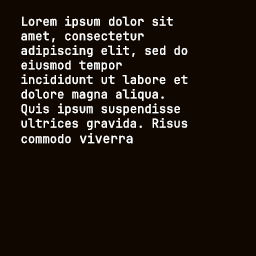
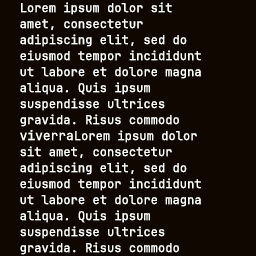
screen animations

Changed region(s): [[0.0625, 0.0, 0.7812, 1.0]]

diff --git a/frontend/src/extras/LaptopScreen.ts b/frontend/src/extras/LaptopScreen.ts
@@ -5,26 +5,33 @@ import LaptopTrianagleShader from "./LaptopTrianagleShader";
 import Timer from "../lib/Timer";
 import LaptopShader from "./LaptopShader";
 import {LaptopState} from "../GameModel";
+import LaptopMailShader from "./LaptopMailShader";
+import LaptopReadTextShader from "./LaptopReadTextShader";
 
 export class LaptopScreen extends Model{
     private triangleMaterial: Material;
-    private imgMaterial: Material;
+
+    private readTextMaterial: Material;
+    private emailMaterialLaptop: Material;
 
     constructor(renderer,parent:Model) {
         super(renderer,"laptopScreen");
         this.mesh = new Plane(renderer);
 
 
-        this.imgMaterial =new Material(this.renderer,"imgLaptopMaterial", new LaptopShader(this.renderer,"laptopShader"))
-        this.imgMaterial.uniforms.setTexture("image",renderer.texturesByLabel["laptopEmail.png"])
-        this.imgMaterial.uniforms.setUniform("ratio",8/5);
-        this.material =this.imgMaterial;
+        this.emailMaterialLaptop =new Material(this.renderer,"imgLaptopMaterial", new LaptopMailShader(this.renderer,"laptopShader"))
+        this.emailMaterialLaptop.uniforms.setTexture("image",renderer.texturesByLabel["laptopEmail.png"])
+        this.emailMaterialLaptop.uniforms.setUniform("ratio",8/5);
+        this.material = this.emailMaterialLaptop;
 
         this.triangleMaterial  =    new Material(this.renderer,this.label,new LaptopTrianagleShader(this.renderer,this.label));
         this.triangleMaterial.uniforms.setUniform("ratio",8/5);
         this.triangleMaterial.uniforms.setTexture("triangle",renderer.texturesByLabel["triangle.png"])
         this.triangleMaterial.uniforms.setTexture("text",renderer.texturesByLabel["text_s.png"])
 
+        this.readTextMaterial  =new Material(this.renderer,"imgLaptopMaterial", new LaptopReadTextShader(this.renderer,"laptopShader"))
+        this.readTextMaterial.uniforms.setTexture("image",renderer.texturesByLabel["laptopText.png"])
+        this.readTextMaterial.uniforms.setUniform("ratio",8/5);
 
 
 
@@ -42,12 +49,12 @@ export class LaptopScreen extends Model{
 
     setState(state: LaptopState) {
         if(state ==LaptopState.NONE){
-            this.material =  this.imgMaterial;
-            this.material.uniforms.setTexture("image",this.renderer.texturesByLabel["laptopText.png"])
+            this.material =   this.readTextMaterial;
+
         }
         if(state ==LaptopState.MAIL){
-            this.material =  this.imgMaterial;
-            this.material.uniforms.setTexture("image",this.renderer.texturesByLabel["laptopEmail.png"])
+           this.material = this.emailMaterialLaptop;
+            //this.material.uniforms.setTexture("image",this.renderer.texturesByLabel["laptopEmail.png"])
         }
         if(state ==LaptopState.TRIANGLE){
             this.material =    this.triangleMaterial ;

diff --git a/frontend/src/extras/LaptopMailShader.ts b/frontend/src/extras/LaptopMailShader.ts
@@ -1,0 +1,97 @@
+import Shader from "../lib/core/Shader";
+
+import DefaultTextures from "../lib/textures/DefaultTextures";
+import {ShaderType} from "../lib/core/ShaderTypes";
+import Camera from "../lib/Camera";
+import ModelTransform from "../lib/model/ModelTransform";
+
+export default class LaptopMailShader extends Shader{
+
+
+    init(){
+
+        if(this.attributes.length==0) {
+            this.addAttribute("aPos", ShaderType.vec3);
+            this.addAttribute("aNormal", ShaderType.vec3);
+            this.addAttribute("aUV0", ShaderType.vec2);
+
+        }
+        this.addUniform("time",0);
+        this.addUniform("ratio",0);
+        this.addTexture("image",DefaultTextures.getWhite(this.renderer))
+
+        this.addSampler("mySampler")
+
+        this.needsTransform =true;
+        this.needsCamera=true;
+    }
+    getShaderCode(): string {
+        return /* wgsl */ `
+///////////////////////////////////////////////////////////      
+struct VertexOutput
+{
+   @location(0) uv0 : vec2f,
+    @location(1) normal : vec3f,
+    @builtin(position) position : vec4f
+  
+}
+struct GBufferOutput {
+  @location(0) color : vec4f,
+  @location(1) normal : vec4f,
+    @location(2) mra : vec4f,
+   
+}
+
+${Camera.getShaderText(0)}
+${ModelTransform.getShaderText(1)}
+${this.getShaderUniforms(2)}
+
+@vertex
+fn mainVertex( ${this.getShaderAttributes()} ) -> VertexOutput
+{
+    var output : VertexOutput;
+    
+    output.position =camera.viewProjectionMatrix*model.modelMatrix *vec4( aPos,1.0);
+    output.uv0 =aUV0;
+   
+    output.normal =model.normalMatrix *aNormal;
+    
+    return output;
+}
+
+@fragment
+fn mainFragment(@location(0) uv0: vec2f,@location(1) normal: vec3f) -> GBufferOutput
+{
+    var output : GBufferOutput;
+    var uv  =uv0-vec2(0.5);
+    uv/=1.0+ smoothstep(0.0,1.0,0.5*max(0,sin(uniforms.time*5.0)))*0.2;
+   
+     uv  +=vec2(0.5);
+    uv *=vec2(1.0,1./uniforms.ratio);
+ 
+   
+   
+    output.color = textureSample(image, mySampler,uv );
+   
+    output.normal =vec4(normalize(normal)*0.5+0.5,1.0);
+    output.mra =vec4(0.5,0.3,0.5,0.5);
+ 
+
+    return output;
+ 
+}
+///////////////////////////////////////////////////////////
+        
+        
+        
+        
+        
+        
+        
+        
+        `
+    }
+
+
+
+}

diff --git a/frontend/src/extras/LaptopReadTextShader.ts b/frontend/src/extras/LaptopReadTextShader.ts
@@ -1,0 +1,96 @@
+import Shader from "../lib/core/Shader";
+
+import DefaultTextures from "../lib/textures/DefaultTextures";
+import {ShaderType} from "../lib/core/ShaderTypes";
+import Camera from "../lib/Camera";
+import ModelTransform from "../lib/model/ModelTransform";
+
+export default class LaptopReadTextShader extends Shader{
+
+
+    init(){
+
+        if(this.attributes.length==0) {
+            this.addAttribute("aPos", ShaderType.vec3);
+            this.addAttribute("aNormal", ShaderType.vec3);
+            this.addAttribute("aUV0", ShaderType.vec2);
+
+        }
+        this.addUniform("time",0);
+        this.addUniform("ratio",0);
+        this.addTexture("image",DefaultTextures.getWhite(this.renderer))
+
+        this.addSampler("mySampler",GPUShaderStage.FRAGMENT,"repeat");
+
+        this.needsTransform =true;
+        this.needsCamera=true;
+    }
+    getShaderCode(): string {
+        return /* wgsl */ `
+///////////////////////////////////////////////////////////      
+struct VertexOutput
+{
+   @location(0) uv0 : vec2f,
+    @location(1) normal : vec3f,
+    @builtin(position) position : vec4f
+  
+}
+struct GBufferOutput {
+  @location(0) color : vec4f,
+  @location(1) normal : vec4f,
+    @location(2) mra : vec4f,
+   
+}
+
+${Camera.getShaderText(0)}
+${ModelTransform.getShaderText(1)}
+${this.getShaderUniforms(2)}
+
+@vertex
+fn mainVertex( ${this.getShaderAttributes()} ) -> VertexOutput
+{
+    var output : VertexOutput;
+    
+    output.position =camera.viewProjectionMatrix*model.modelMatrix *vec4( aPos,1.0);
+    output.uv0 =aUV0;
+   
+    output.normal =model.normalMatrix *aNormal;
+    
+    return output;
+}
+
+@fragment
+fn mainFragment(@location(0) uv0: vec2f,@location(1) normal: vec3f) -> GBufferOutput
+{
+    var output : GBufferOutput;
+    
+    var uv =uv0;
+    uv.y =uv.y+round(uniforms.time)/16.0;
+  // uv = uv*vec2(1.0,1./uniforms.ratio);
+ 
+   
+   
+    output.color = textureSample(image, mySampler,uv );
+   
+    output.normal =vec4(normalize(normal)*0.5+0.5,1.0);
+    output.mra =vec4(0.5,0.3,0.9,0.5);
+ 
+
+    return output;
+ 
+}
+///////////////////////////////////////////////////////////
+        
+        
+        
+        
+        
+        
+        
+        
+        `
+    }
+
+
+
+}

diff --git a/frontend/src/transitions/TextInfo.ts b/frontend/src/transitions/TextInfo.ts
@@ -7,7 +7,7 @@ export default class TextInfo extends Transition{
 
     set(onComplete: () => void,data:string=""){
         super.set(onComplete)
- 
+
         if(GameModel.textHandler.showHitTrigger(data)){
             GameModel.gameUI.cursor.show(CURSOR.NEXT)
         }else{
